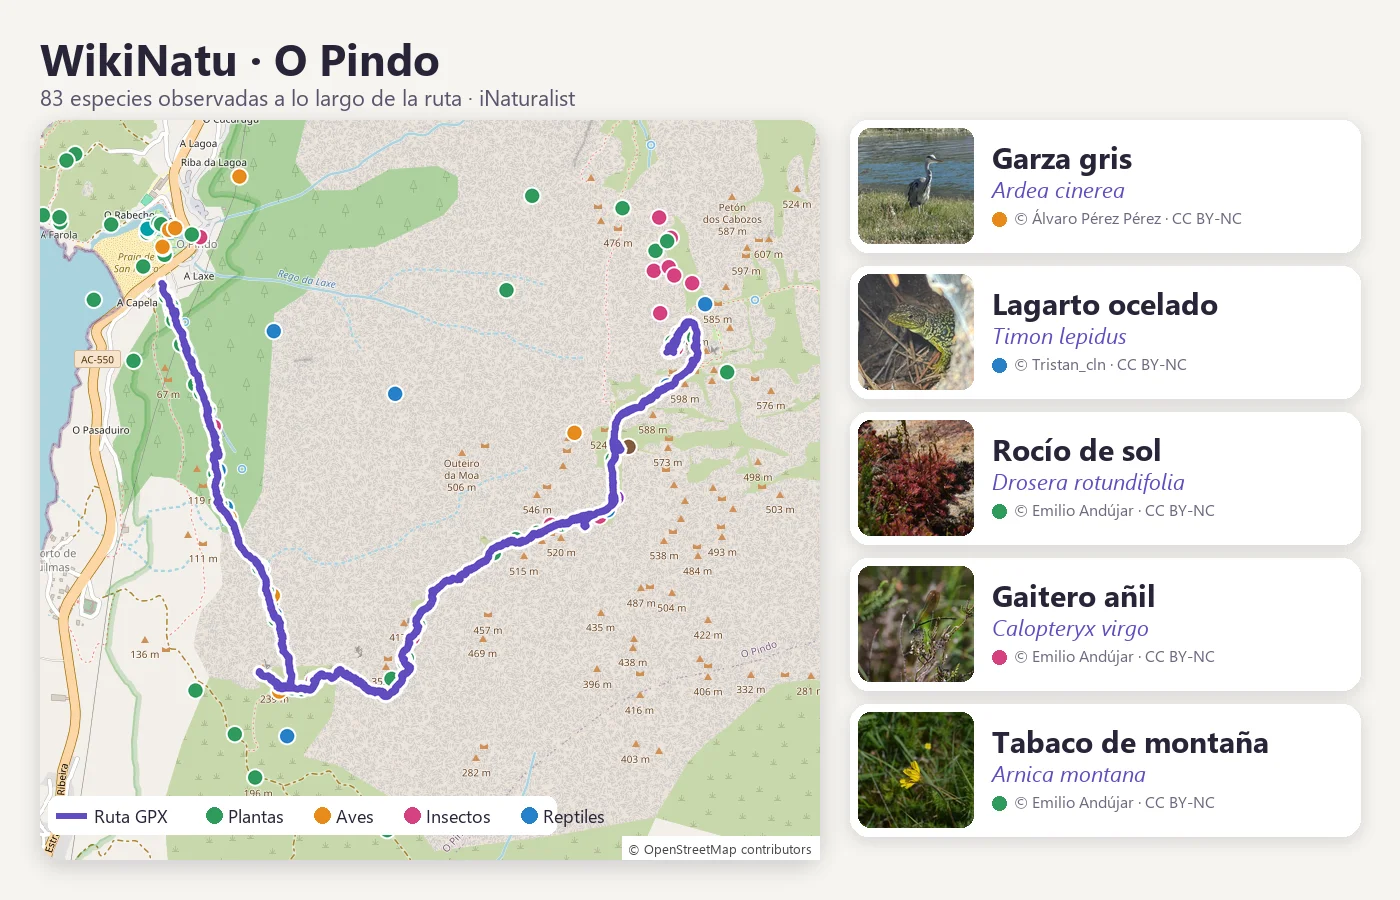
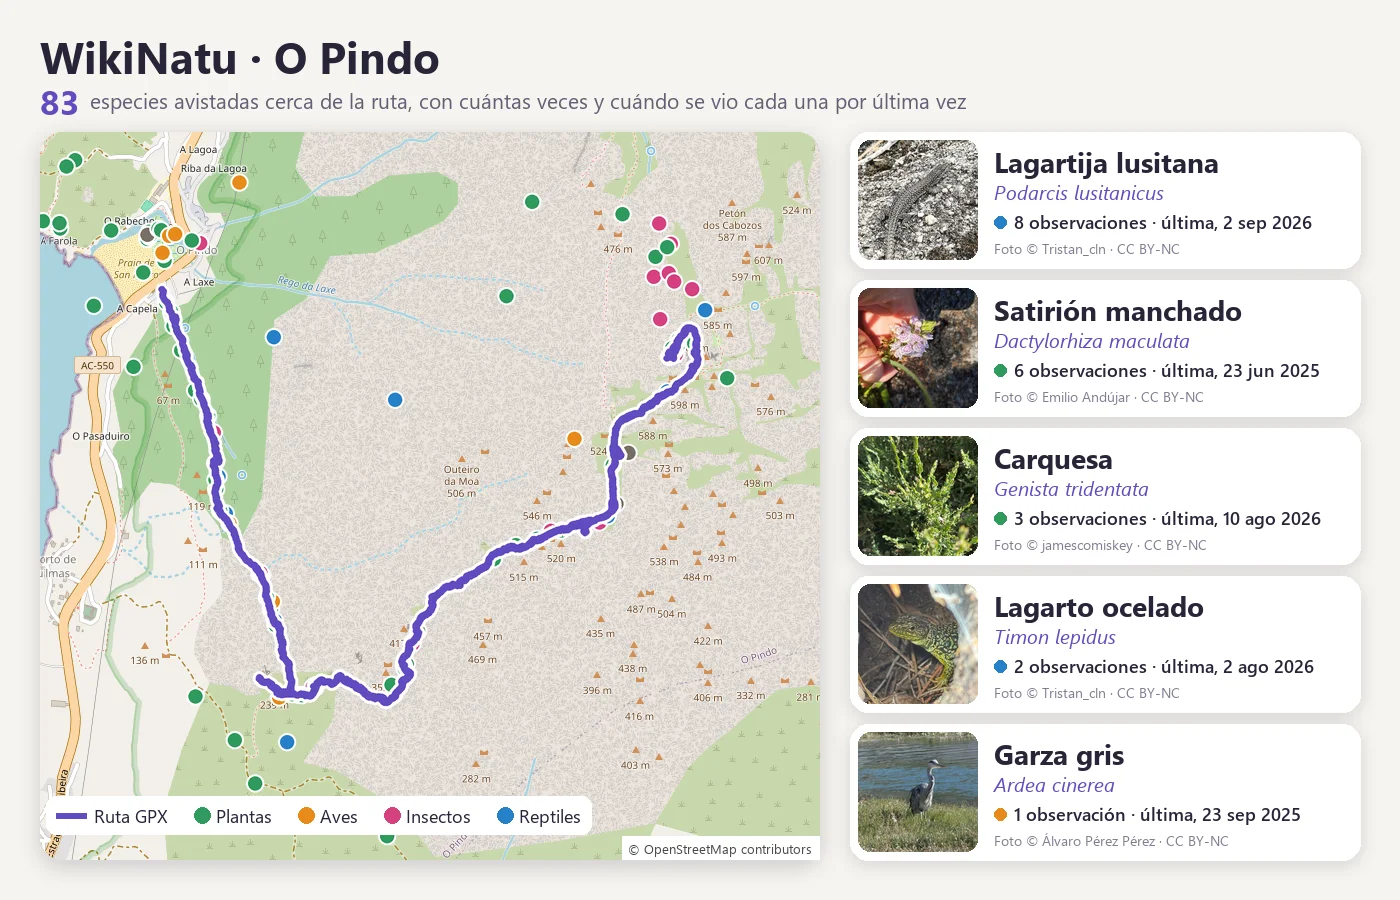
«Sobre mí»: WikiNatu enseña cuántas veces y cuándo se vio cada especie
Leyenda medida con el texto (Reptiles ya no se sale). Datos de iNaturalist del 18-oct-2026
con la lógica de la app (5 puntos, 1 km, 50 por punto) y sin duplicados entre puntos.
Generador en side-session-notes/.../wikinatu.

diff --git a/src/i18n/ui.ts b/src/i18n/ui.ts
@@ -60,7 +60,7 @@ export const ui = {
         easimap: { src: '/sobre-mi/easimap.webp', alt: 'EASiMap, mapa estelar del hemisferio norte de la familia de enzimas GH1, con zoom en la posición 333: el triptófano se orienta distinto en eucariotas que en bacterias y arqueas' },
         proreg: { src: '/sobre-mi/proreg.webp', alt: 'Web pública de ProReg, el registro de cáncer de próstata de la EAU' },
         tuits: { src: '/sobre-mi/tuits-covid.webp', alt: 'Tuits con sentimiento negativo en España: la mediana anual sube a 2,56 % en 2020, y un zoom de 2020 a 2022 con la media semanal y las olas de COVID-19' },
-        wikinatu: { src: '/sobre-mi/wikinatu.webp', alt: 'WikiNatu en la ruta de O Pindo: 83 especies de iNaturalist sobre el mapa y cinco fichas con foto' },
+        wikinatu: { src: '/sobre-mi/wikinatu.webp', alt: 'WikiNatu en la ruta de O Pindo: 83 especies de iNaturalist avistadas cerca de la ruta, y cinco fichas con cuántas veces se vio cada una y cuándo por última vez' },
         montana: { src: '/sobre-mi/montana.webp', alt: 'Miguel en un valle nevado de montaña' },
         paisaje: { src: '/sobre-mi/paisaje.webp', alt: 'Valle con un río y montañas nevadas' },
         ria: { src: '/sobre-mi/mapa-ria.webp', alt: 'Mapa de relieve de una ría gallega sobre una carta náutica antigua' },
@@ -132,7 +132,7 @@ export const ui = {
         easimap: { src: '/sobre-mi/easimap.webp', alt: 'EASiMap, star map of the northern hemisphere of the GH1 enzyme family, zooming into position 333: the tryptophan points differently in eukaryotes than in bacteria and archaea' },
         proreg: { src: '/sobre-mi/proreg.webp', alt: 'Public website of ProReg, the EAU prostate cancer registry' },
         tuits: { src: '/sobre-mi/tuits-covid.webp', alt: 'Negative-sentiment tweets in Spain: the yearly median peaks at 2.56 % in 2020, plus a 2020-2022 zoom with the weekly mean and COVID-19 waves' },
-        wikinatu: { src: '/sobre-mi/wikinatu.webp', alt: 'WikiNatu on the O Pindo route: 83 iNaturalist species on the map and five species cards' },
+        wikinatu: { src: '/sobre-mi/wikinatu.webp', alt: 'WikiNatu on the O Pindo route: 83 iNaturalist species seen near the route, and five species cards with how many times each was seen and when it was last seen' },
         montana: { src: '/sobre-mi/montana.webp', alt: 'Miguel in a snowy mountain valley' },
         paisaje: { src: '/sobre-mi/paisaje.webp', alt: 'Valley with a river and snowy mountains' },
         ria: { src: '/sobre-mi/mapa-ria.webp', alt: 'Relief map of a Galician estuary over an old nautical chart' },
